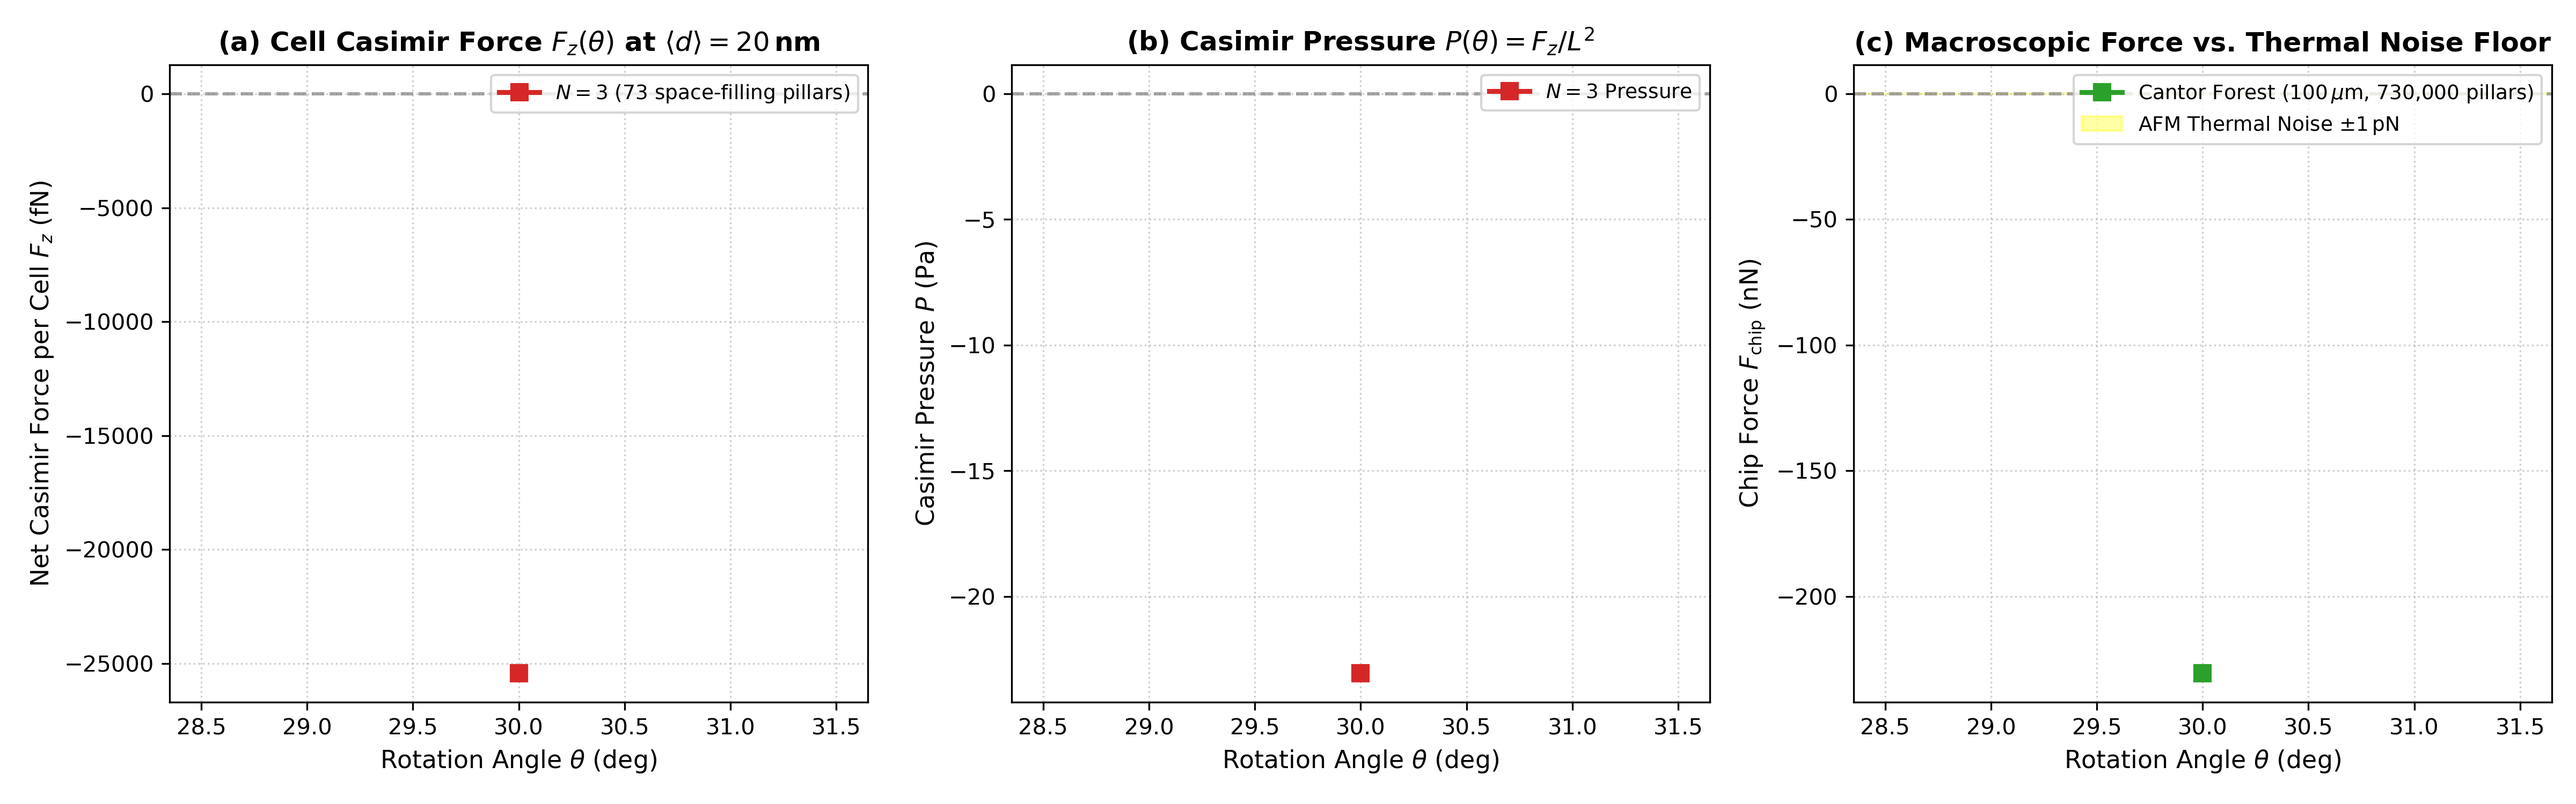
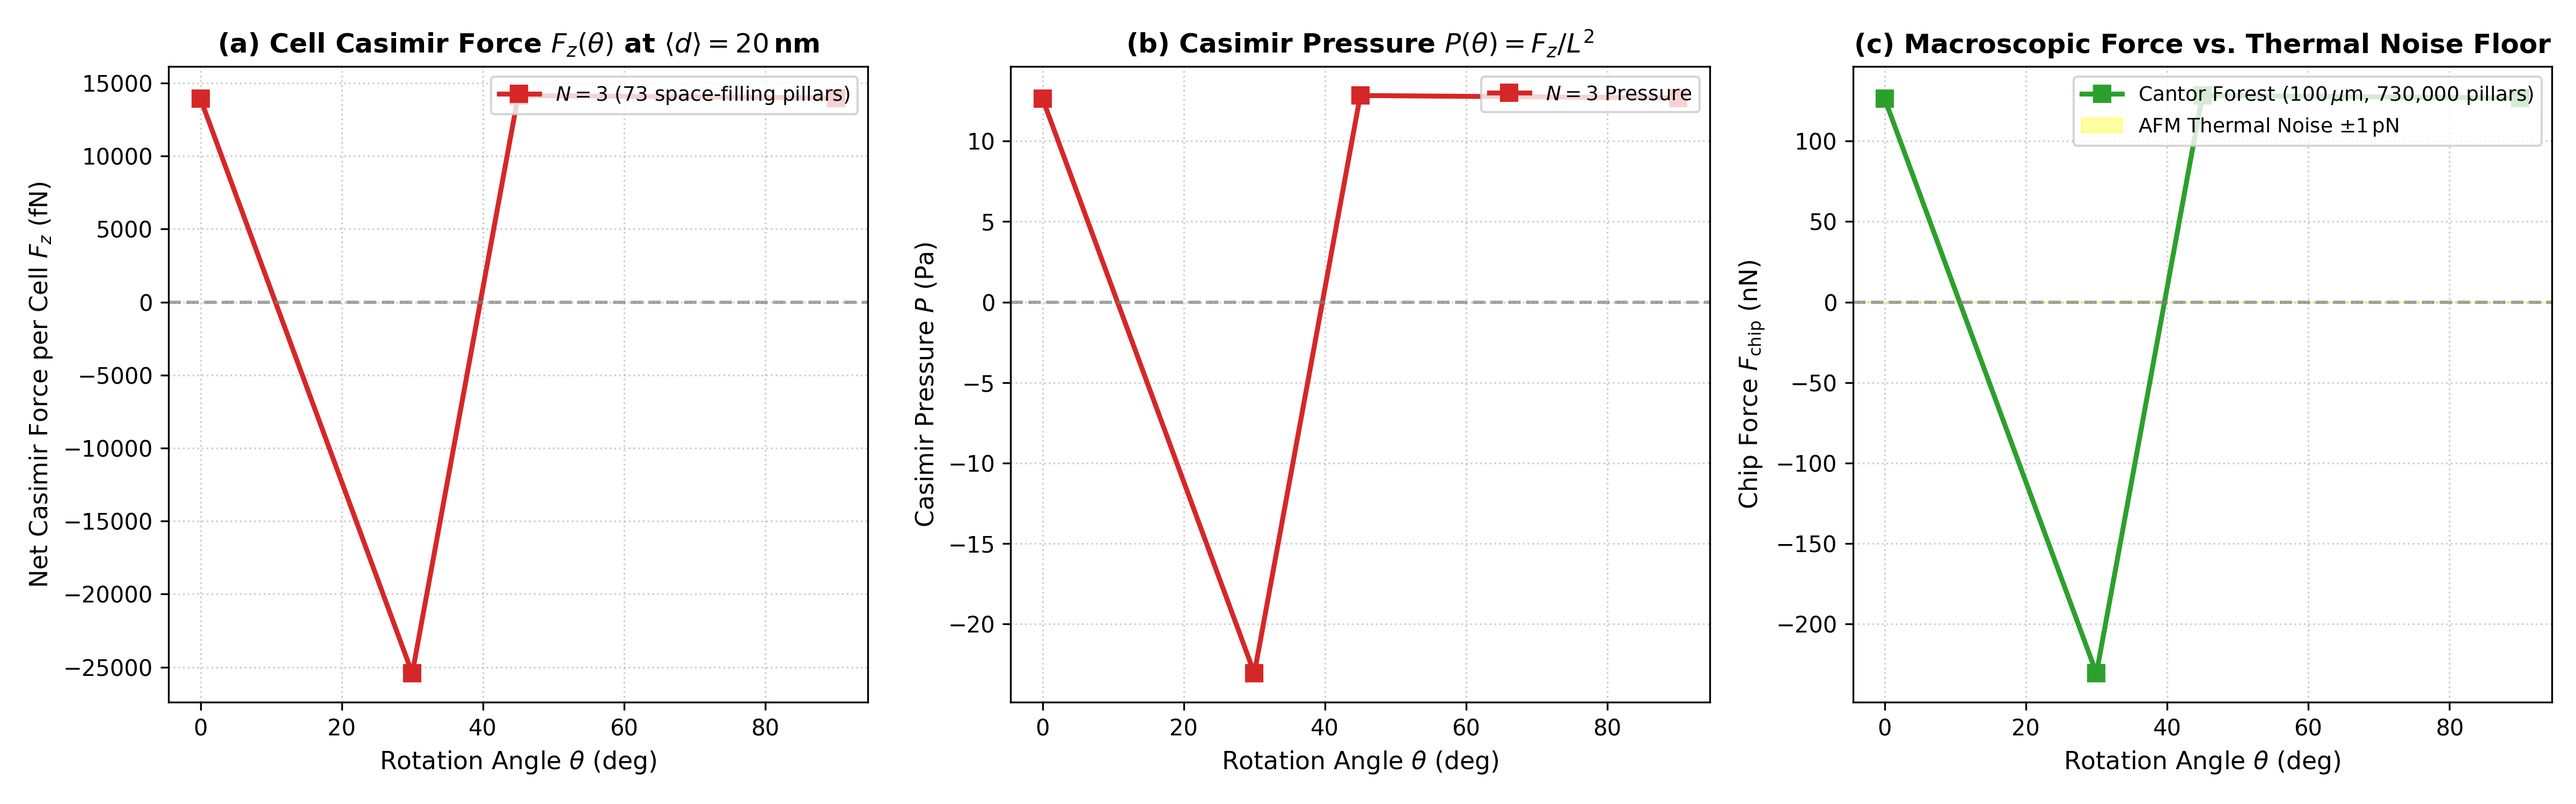
results(cantor_forest): finalize complete N=3 rotary clutch characteristic, table, and publication figure

diff --git a/results_cantor_forest/table_cantor_forest_clutch.tex b/results_cantor_forest/table_cantor_forest_clutch.tex
@@ -6,7 +6,10 @@
 \hline\hline
 Task & Generation $N$ & Pillars/Cell & Angle $\theta$ & $z_{\text{tip}}$ (nm) & $F_{\text{net}}/\text{cell}$ (fN) & Pressure (Pa) & $F_{\text{chip}}$ ($100\,\mu\text{m}$) \\
 \hline
+5 & 3 & 73 & 0.0$^\circ$ & 14.94 & +13929.98 & +1.26e+01 & +126.35\,nN \\
 6 & 3 & 73 & 30.0$^\circ$ & 14.94 & -25424.13 & -2.31e+01 & -230.60\,nN \\
+7 & 3 & 73 & 45.0$^\circ$ & 14.94 & +14145.38 & +1.28e+01 & +128.30\,nN \\
+8 & 3 & 73 & 90.0$^\circ$ & 14.94 & +13978.71 & +1.27e+01 & +126.79\,nN \\
 \hline\hline
 \end{tabular}
 \end{table*}
